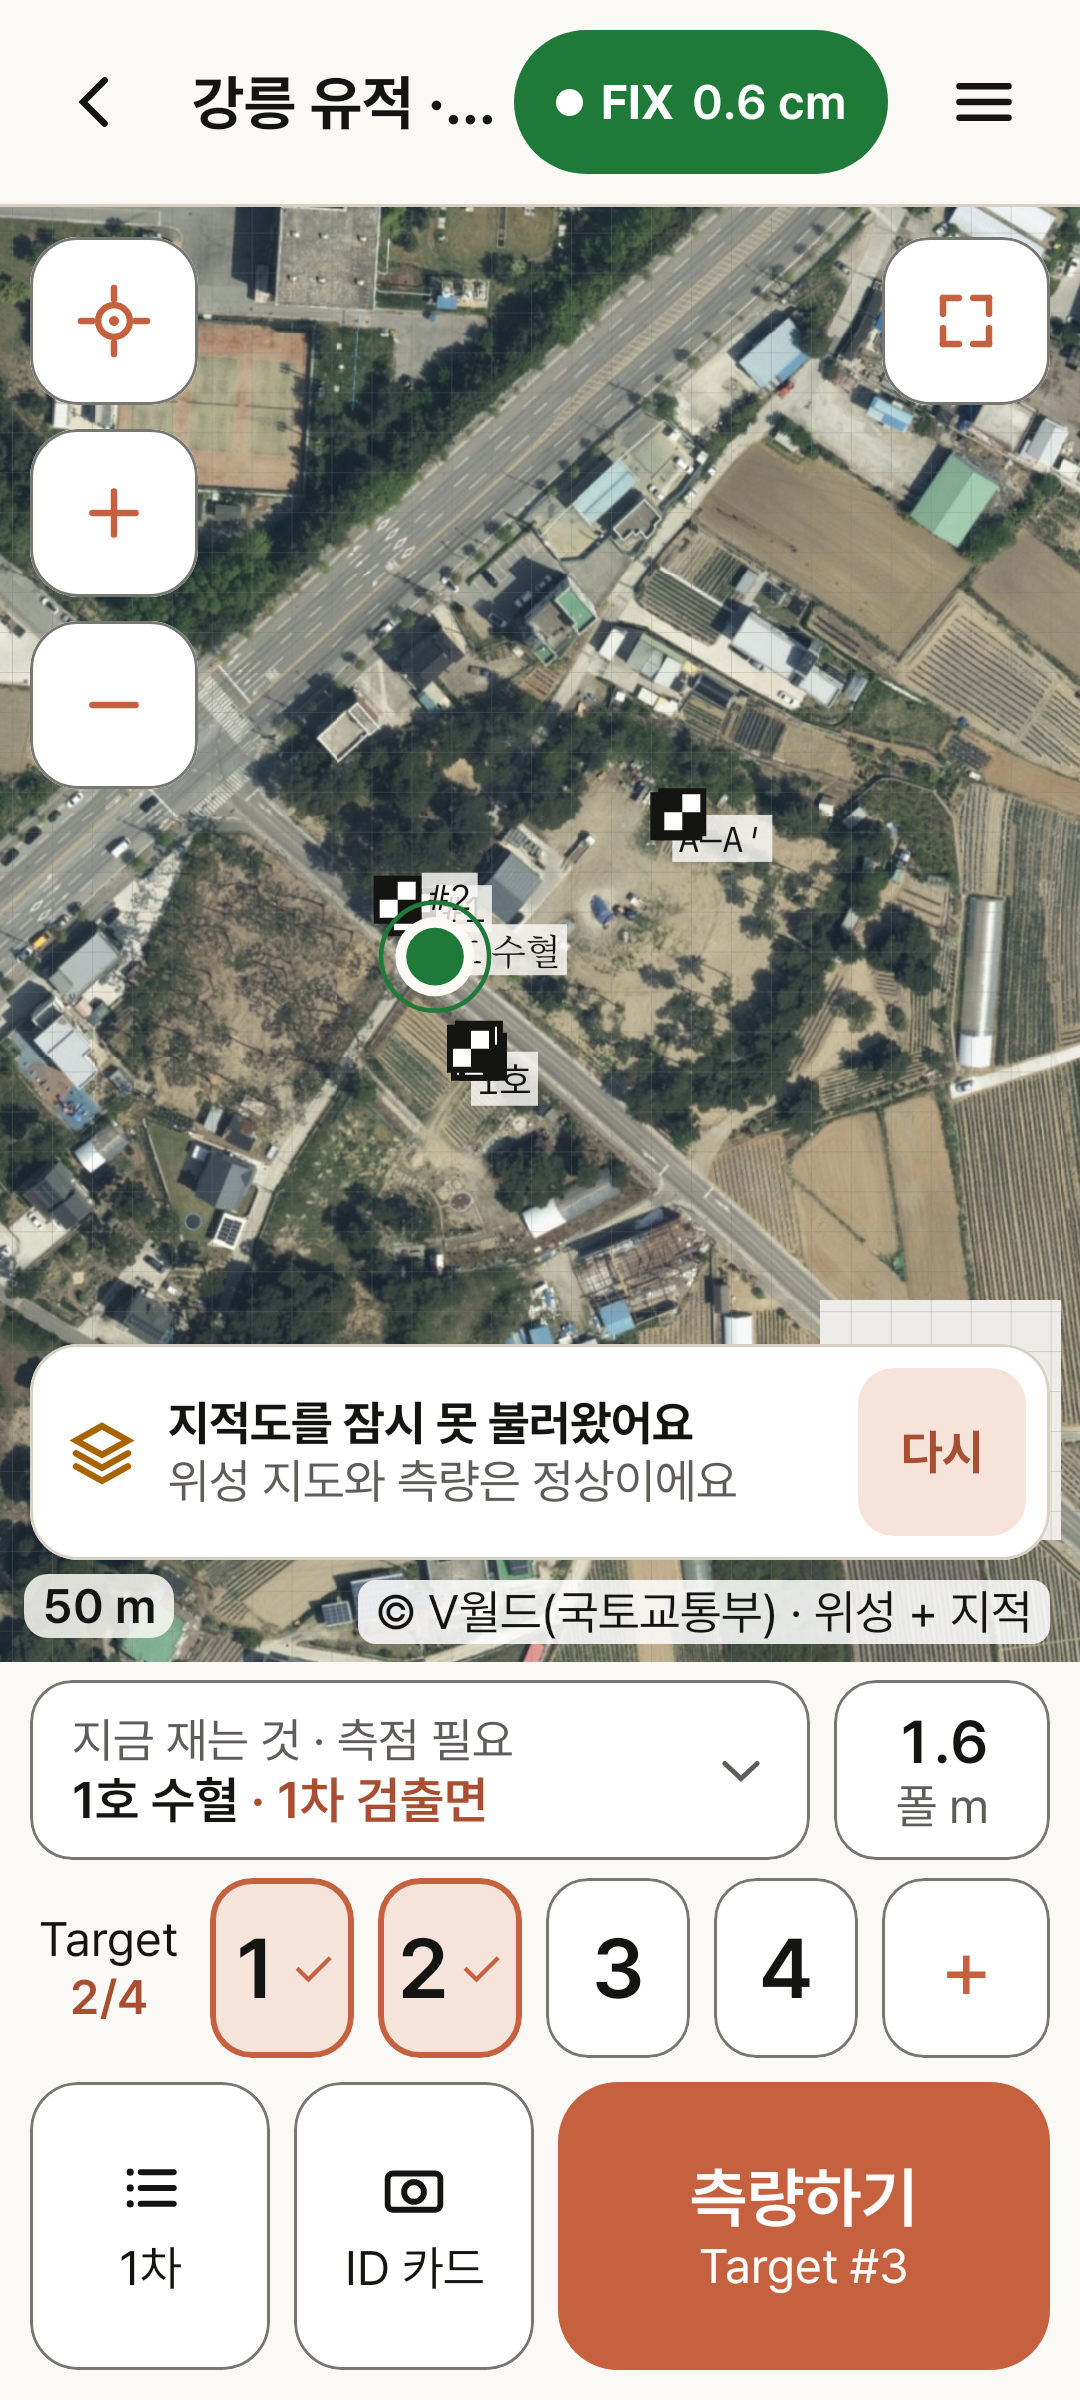
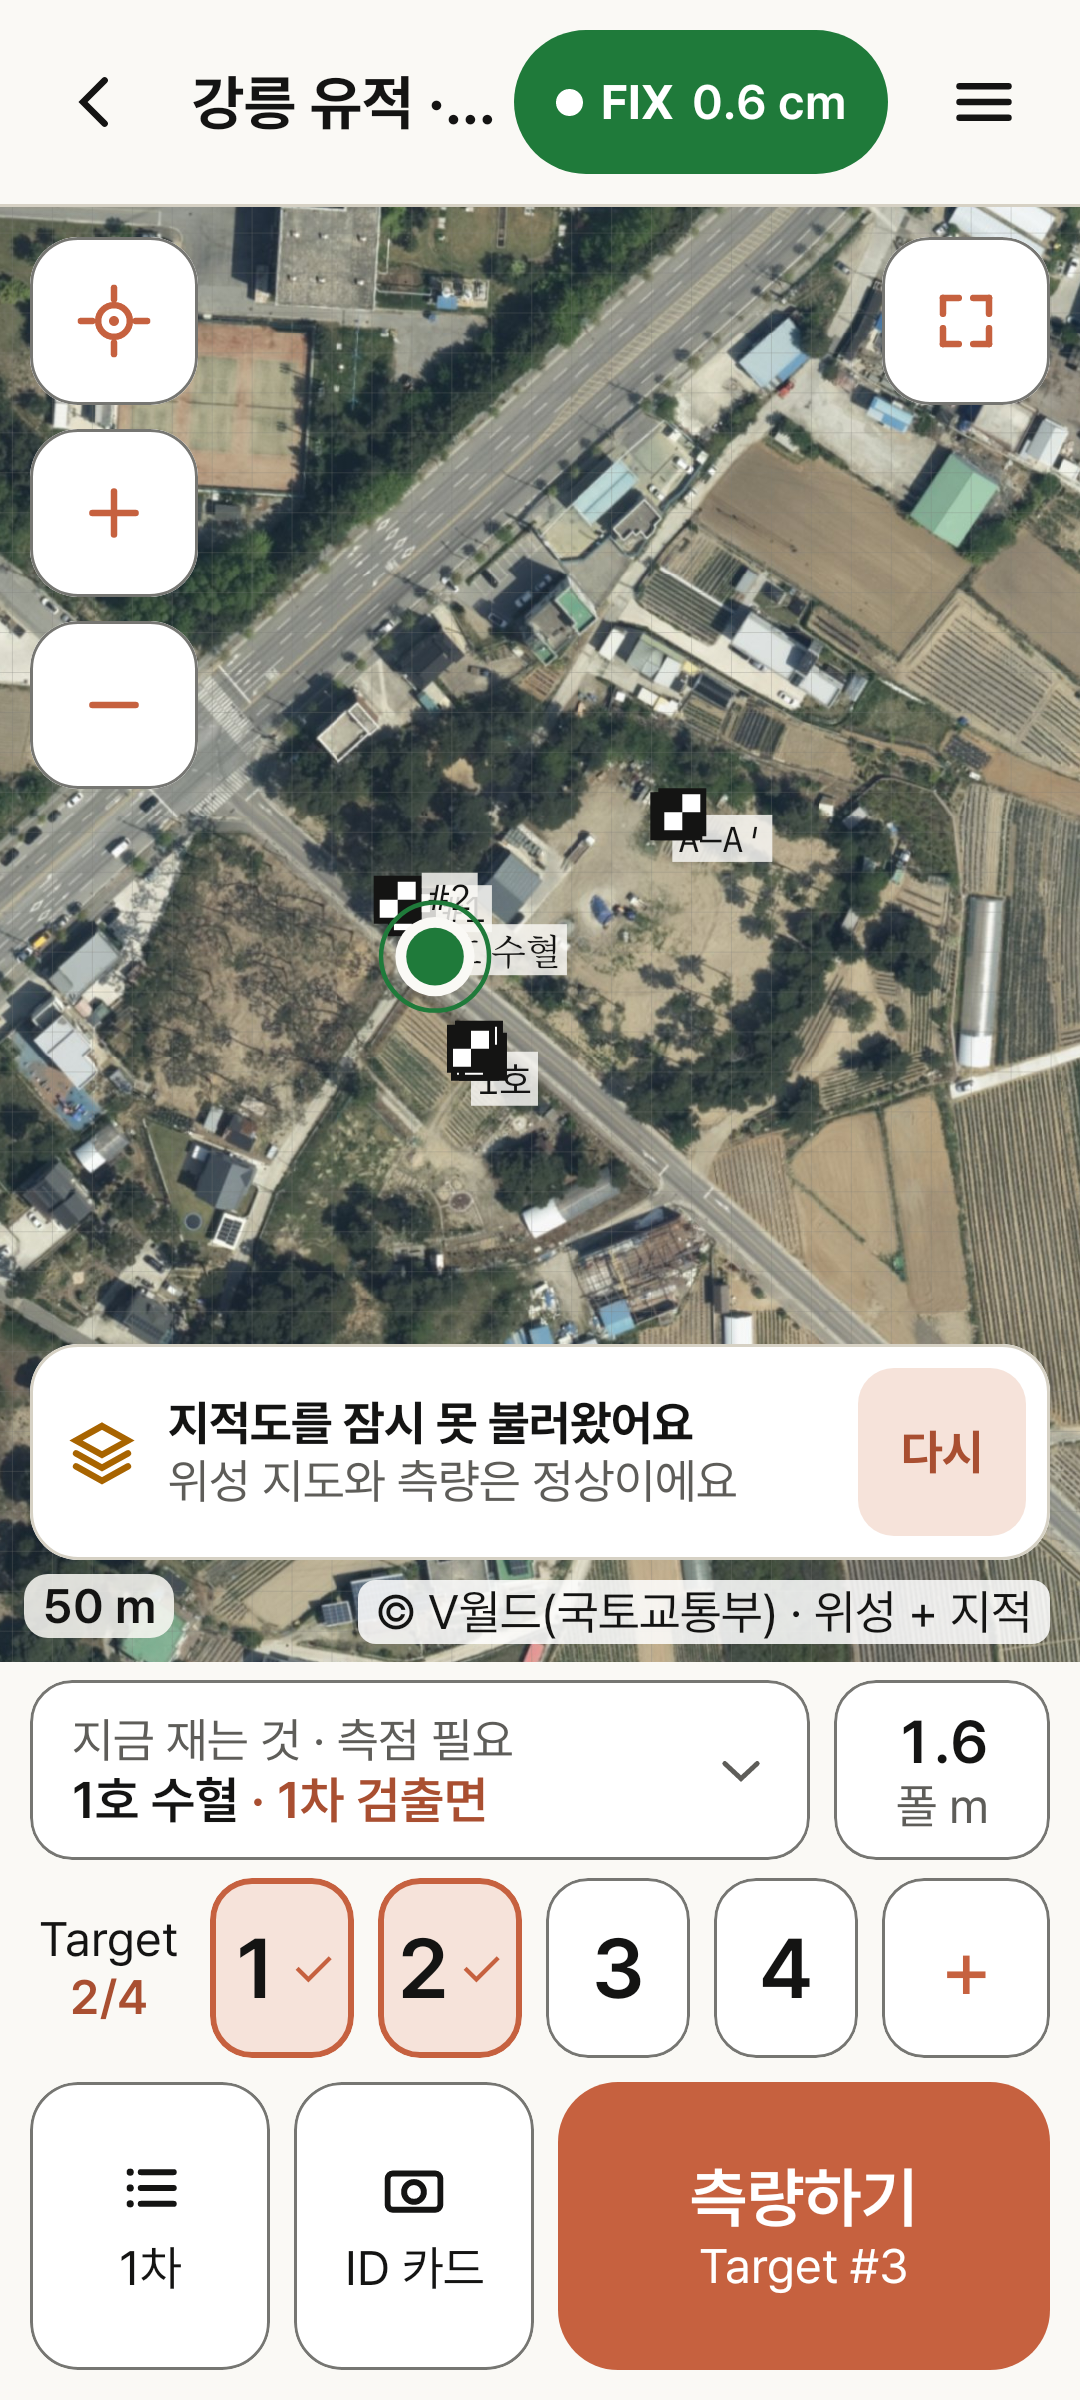
0.1.9: 수신기 위치 대기 문구 정리

Changed region(s): [[0.7639, 0.5312, 1.0, 0.6562]]

diff --git a/src/main/kotlin/kr/archsurvey/ui/ConnectionModel.kt b/src/main/kotlin/kr/archsurvey/ui/ConnectionModel.kt
@@ -254,7 +254,7 @@ object ConnectSteps {
         }
         1 -> when (states[1]) {
             StepState.FAIL -> (link.error?.let { "${it.code} · ${it.action}" } ?: link.message).ifBlank { null }
-            StepState.ACTIVE -> link.message.ifBlank { "위치(GGA) 기다리는 중" }
+            StepState.ACTIVE -> link.message.ifBlank { "수신기 위치 기다리는 중" }
             StepState.DONE -> "GGA 수신 중"
             else -> null
         }
